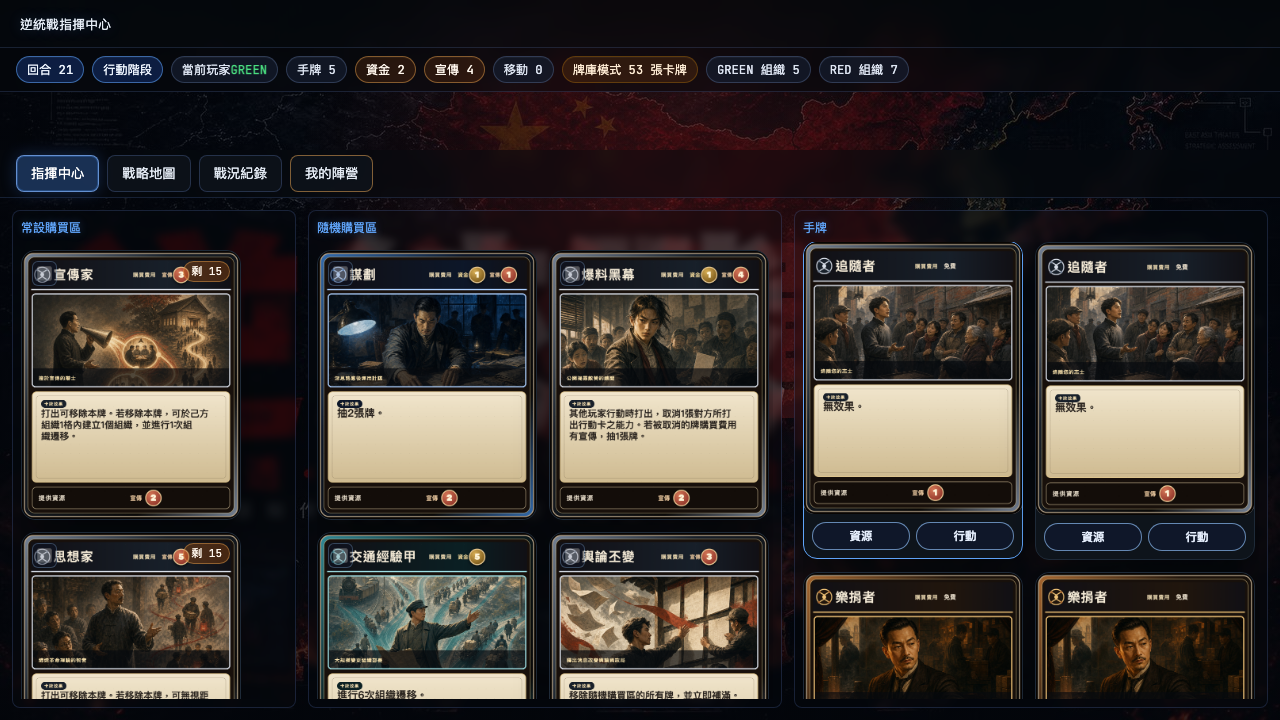
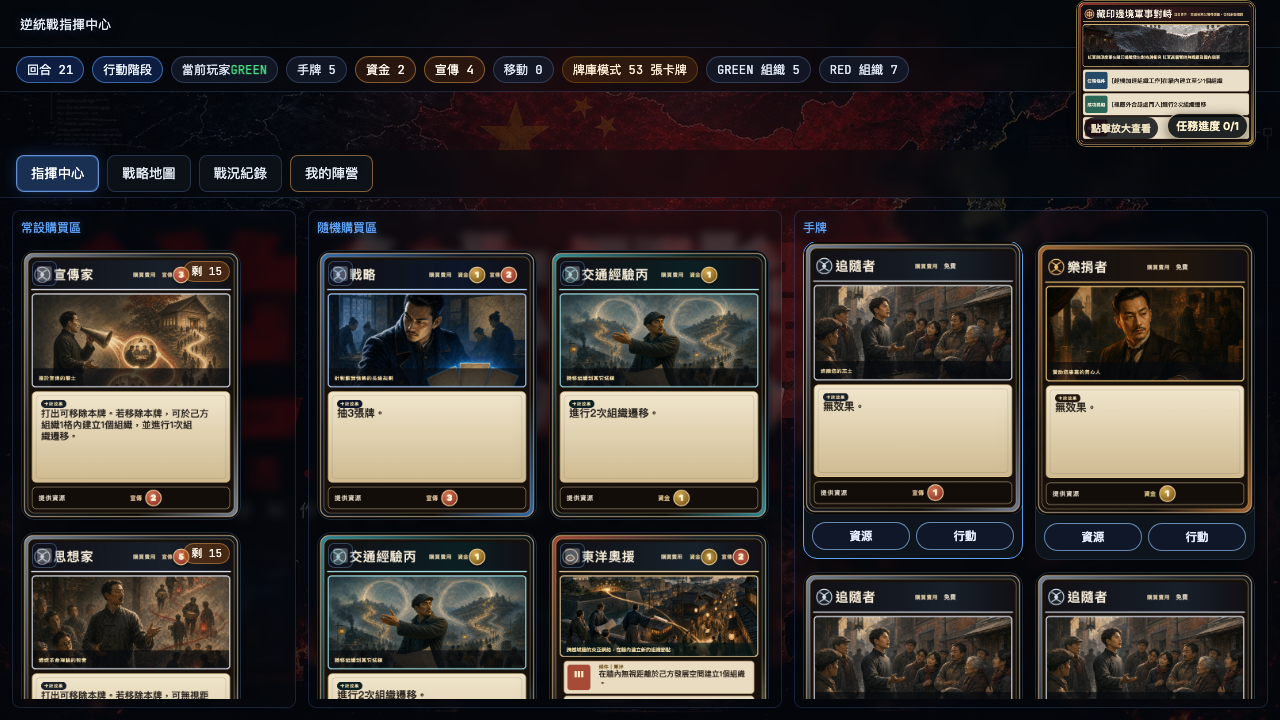
fix: 其他玩家通知全面繁體中文化

diff --git a/static/app.js b/static/app.js
@@ -3298,6 +3298,56 @@ function closePeerActionNotice(seenLogLength = peerActionNoticeSeenLogLength) {
   applyPeerActionNoticeMinimizedState();
 }
 
+function localizePeerActionNoticeText({ actor, text, playerNames = [] }) {
+  const actorName = actor?.name || '';
+  const detail = text.startsWith(actorName) ? text.slice(actorName.length).trim() : text.trim();
+  if (!/[A-Za-z]{3,}/.test(detail)) return text;
+
+  const finish = (localizedDetail) => {
+    const residual = [actorName, ...playerNames]
+      .filter(Boolean)
+      .sort((a, b) => b.length - a.length)
+      .reduce((value, name) => value.split(name).join(''), localizedDetail);
+    return `${actorName} ${/[A-Za-z]{3,}/.test(residual) ? '完成了一項行動' : localizedDetail}`;
+  };
+
+  const patterns = [
+    [/^played (.+?) as resource(?: \(no resources from support card\))?$/i, m => `將${m[1]}作為資源使用`],
+    [/^played (.+?); waiting up to \d+ seconds for (.+?) to choose cancel reaction$/i, m => `使用了${m[1]}，等待${m[2]}決定是否取消`],
+    [/^played (.+?); card returned to (.+?)'s discard pile$/i, m => `使用了${m[1]}，卡牌回到${m[2]}的棄牌堆`],
+    [/^played (.+)$/i, m => `使用了${m[1]}`],
+    [/^triggered (.+?) and drew (\d+) card\(s\)$/i, m => `發動${m[1]}並抽了${m[2]}張牌`],
+    [/^triggered (.+?) and gained (\d+) money$/i, m => `發動${m[1]}並獲得${m[2]}資金`],
+    [/^triggered (.+?) and gained (\d+) propaganda$/i, m => `發動${m[1]}並獲得${m[2]}宣傳`],
+    [/^triggered (.+)$/i, m => `發動了${m[1]}`],
+    [/^built organization in (.+?) from (.+)$/i, m => `從${m[2]}在${m[1]}建立了組織`],
+    [/^built organization in (.+?)(?: via .+)?$/i, m => `在${m[1]}建立了組織`],
+    [/^moved 1 organization from (.+?) to (.+?) via (road|rail)$/i, m => `經由${m[3].toLowerCase() === 'rail' ? '鐵路' : '道路'}將1個組織從${m[1]}移到${m[2]}`],
+    [/^moved 1 shared organization from (.+?) to (.+?) via (road|rail)$/i, m => `經由${m[3].toLowerCase() === 'rail' ? '鐵路' : '道路'}將1個共同組織從${m[1]}移到${m[2]}`],
+    [/^dissolved 1 organization from (.+?) at (.+)$/i, m => `在${m[2]}瓦解了${m[1]}的1個組織`],
+    [/^dissolved 1 shared organization via (.+?) from (.+?) at (.+)$/i, m => `在${m[3]}經由${m[1]}瓦解了${m[2]}的1個共同組織`],
+    [/^bought (.+)$/i, m => `購買了${m[1]}`],
+    [/^discarded (.+?) via (.+)$/i, m => `因${m[2]}棄掉${m[1]}`],
+    [/^used (.+?) to force (.+?) to discard (.+)$/i, m => `使用${m[1]}迫使${m[2]}棄掉${m[3]}`],
+    [/^used (.+?) before drawing new hand$/i, m => `在補充新手牌前使用了${m[1]}`],
+    [/^reacted with (.+?) to cancel (.+)$/i, m => `打出${m[1]}取消${m[2]}`],
+    [/^'s (.+?) was canceled by reaction(?:; card returned to (.+?)'s discard pile)?$/i, m => `的${m[1]}被反應卡取消${m[2] ? `，卡牌回到${m[2]}的棄牌堆` : ''}`],
+    [/^resolved (.+?) and built in (.+)$/i, m => `結算${m[1]}並在${m[2]}建立組織`],
+    [/^resolved (.+?) targeting (.+?) and discarded (\d+) random card\(s\)$/i, m => `結算${m[1]}，使${m[2]}隨機棄掉${m[3]}張牌`],
+    [/^started interactive support resolution for (.+?) at tier (\d+)$/i, m => `開始結算${m[1]}第${m[2]}級效果`],
+    [/^may use (.+?) before drawing new hand$/i, m => `可在補充新手牌前使用${m[1]}`],
+    [/^could not play (.+?): no legal target$/i, m => `無法使用${m[1]}：沒有合法目標`],
+    [/^End of turn$/i, () => '結束回合'],
+  ];
+  for (const [pattern, render] of patterns) {
+    const match = detail.match(pattern);
+    if (match) return finish(render(match));
+  }
+
+  const localized = playerMessageZhTw(detail, '');
+  return finish(localized || '完成了一項行動');
+}
+
 function findLatestPeerActionSinceIndex(state, fromIndex) {
   const entries = state.action_log || [];
   const others = (state.players || []).filter(p => p.id !== playerId);
@@ -3317,7 +3367,7 @@ function findLatestPeerActionSinceIndex(state, fromIndex) {
         bestLength = name.length;
       }
     }
-    return { actor, text: stripped, cardName };
+    return { actor, text: stripped, cardName, playerNames: (state.players || []).map(p => p.name) };
   }
   return null;
 }
@@ -3356,7 +3406,7 @@ function renderPeerActionNotice(state) {
     const color = factionNameColor(found.actor.faction) || '#e5ecf5';
     playerEl.innerHTML = `<span style="color:${color}">${escapeHtml(found.actor.name)}</span>`;
   }
-  if (textEl) textEl.textContent = found.text;
+  if (textEl) textEl.textContent = localizePeerActionNoticeText(found);
   if (artEl) {
     const artUrl = found.cardName ? playableCardArtUrl(found.cardName) : '';
     artEl.classList.remove('peer-action-notice-art-load-failed');

diff --git a/static/index.html b/static/index.html
@@ -340,6 +340,6 @@
 
 <script src="https://unpkg.com/leaflet@1.9.4/dist/leaflet.js"></script>
 <script src="/static/player_messages_zh_tw.js?v=player-message-i18n-20260801"></script>
-<script src="/static/app.js?v=peer-notice-turn-handoff-20260806"></script>
+<script src="/static/app.js?v=peer-notice-zh-tw-20260806"></script>
 </body>
 </html>

diff --git a/scripts/validate_peer_action_notice_turn_handoff.py b/scripts/validate_peer_action_notice_turn_handoff.py
@@ -64,7 +64,7 @@ def main() -> None:
         peer_state = {
             "players": players,
             "current_player": red["name"],
-            "action_log": [f"{red['name']} 使用了 合作談判"],
+            "action_log": [f"{red['name']} played 合作談判"],
         }
         page.evaluate("state => renderPeerActionNotice(state)", peer_state)
         opened = page.evaluate(
@@ -79,9 +79,40 @@ def main() -> None:
             "peer_action_opens_full_notice",
             opened["display"] == "flex"
             and red["name"] in opened["player"]
-            and "合作談判" in opened["text"]
+            and opened["text"] == f"{red['name']} 使用了合作談判"
+            and not any(word in opened["text"].lower() for word in ("played", "triggered", "drew", "gained"))
             and opened["hasImage"],
             opened,
+        )
+
+        translation_matrix = page.evaluate(
+            """() => {
+                const actor = { name: 'RED' };
+                const playerNames = ['RED', 'GREEN'];
+                const cases = [
+                    ['RED played 合作談判', 'RED 使用了合作談判'],
+                    ['RED triggered 統戰部 and drew 2 card(s)', 'RED 發動統戰部並抽了2張牌'],
+                    ['RED built organization in 北京', 'RED 在北京建立了組織'],
+                    ['RED moved 1 organization from 北京 to 天津 via road', 'RED 經由道路將1個組織從北京移到天津'],
+                    ['RED bought 思想家', 'RED 購買了思想家'],
+                    ['RED used 分神 to force GREEN to discard 追隨者', 'RED 使用分神迫使GREEN棄掉追隨者'],
+                    ['RED reacted with 產業滲透 to cancel 合作談判', 'RED 打出產業滲透取消合作談判'],
+                    ["RED's 合作談判 was canceled by reaction", 'RED 的合作談判被反應卡取消'],
+                    ['RED may use 行動預告 before drawing new hand', 'RED 可在補充新手牌前使用行動預告'],
+                    ['RED triggered 民主陣線 and gained a removed card proxy', 'RED 完成了一項行動'],
+                    ['RED performed obscure backend action', 'RED 完成了一項行動'],
+                ];
+                return cases.map(([raw, expected]) => {
+                    const actual = localizePeerActionNoticeText({ actor, text: raw, playerNames });
+                    const residual = actual.replaceAll('RED', '').replaceAll('GREEN', '');
+                    return { raw, expected, actual, noEnglish: !/[A-Za-z]{3,}/.test(residual), ok: actual === expected };
+                });
+            }"""
+        )
+        record(
+            "peer_action_english_patterns_are_localized_to_traditional_chinese",
+            all(item["ok"] and item["noEnglish"] for item in translation_matrix),
+            {"cases": translation_matrix},
         )
         page.wait_for_timeout(400)
         page.screenshot(path=str(RECORD_DIR / "peer_action_notice_before_turn_handoff.png"))

diff --git a/TODO.md b/TODO.md
@@ -52,6 +52,7 @@
     - 檔案異動：`static/index.html`（移除 `#peerActionNoticeBadge` 按鈕，`#peerActionNotice` 內新增 `.peer-action-notice-card` 包裹既有 header/body）、`static/style.css`（整段 `.peer-action-notice*` 規則改寫為疊層＋巢狀縮小樣式，移除 `.peer-action-notice-badge*` 與其脈動動畫）、`static/app.js`（新增 `applyPeerActionNoticeMinimizedState()` 統一處理 class 切換與按鈕圖示；`renderPeerActionNotice()` 移除對 badge 元素的所有讀寫，改為單一 overlay 元素配合 class）。
     - 驗證：Playwright 雙分頁腳本同步改寫斷言方式（`classList.contains('peer-action-notice-minimized')` 取代原本讀取 badge 的 `display`），重新驗證：A 打出印度奧援 → B 畫面立刻跳出置中大彈窗（背景暗化模糊）→ 按縮小鈕原地收成左下角小卡片、背景恢復可操作 → 再按一次按鈕原地展開回大彈窗。三張截圖（展開／縮小／還原）皆為真實 browser UI 截圖。完整 pytest 280/280 全過（無變動，純前端）。
   - **2026-08-06 回合交接時自動關閉通知；已完成**：當 `state.current_player` 變成目前 viewer 自己時，`renderPeerActionNotice()` 會立即關閉其他玩家的通知，不論通知仍是置中大型彈窗或已縮成左下角小卡片；同時清除 minimized/content 狀態並把 `peerActionNoticeSeenLogLength` 推進到當前最新 log，避免之後再次進入等待狀態時重播上一回合的舊通知。換局時仍會精確重設 log 游標，不受上一局較長歷史影響。新增 `scripts/validate_peer_action_notice_turn_handoff.py` 正式 browser proof，覆蓋：其他玩家新動作正常展開、可縮小、本人回合關閉縮小通知、舊通知不重播、下一則新動作仍會展開、本人回合也會關閉未縮小的大型通知、console 無錯誤，**7/7 passed**。前後截圖及 JSON 位於 `docs/records/playtest-flow/peer-action-notice-turn-handoff/`；完整 pytest 首輪碰到既有隨機事件 fixture 使 `test_business_network_ws_result.py` 暫時進入 `event_build_organization`，單測立即重跑 **1/1 passed**，隨後完整重跑 **280/280 passed**。
+  - **2026-08-06 其他玩家通知全面繁體中文化；已完成**：通知不再直接顯示後端混合語言 action log（例如 `RED played 合作談判`），新增 `localizePeerActionNoticeText()` 將常見的使用卡牌、作為資源、反應取消、發動能力、抽牌、取得資源、建立／移動／瓦解組織、購買、棄牌與奧援結算等句型轉為自然繁中；道路／鐵路等 mode 也會中文化。玩家自行輸入的英文名稱（例如 `RED`／`GREEN`）原樣保留；若遇到尚未收錄且仍含英文系統詞的句型，安全退回「玩家名 完成了一項行動」，不讓 backend 英文洩漏到通知 UI。正式 browser proof 改以真實英文輸入 `RED played 合作談判` 驗證畫面輸出 `RED 使用了合作談判`，另跑 11 組代表句型矩陣並移除玩家名後檢查零英文系統詞；連同回合交接共 **8/8 passed**，既有全域玩家訊息繁中 browser regression **10/10 passed**、完整 pytest **280/280 passed**，截圖已更新於同一紀錄目錄。
 
 ### P2：產業滲透取消紅軍能力後，該次紅軍能力應算已使用
 - [done] 使用者回報：使用產業滲透阻止紅軍能力後，紅軍能力應該就要算他已經用了該次能力。（2026-08-06 使用者回報；同日使用者要求處理，與爆料黑幕一併修正）
